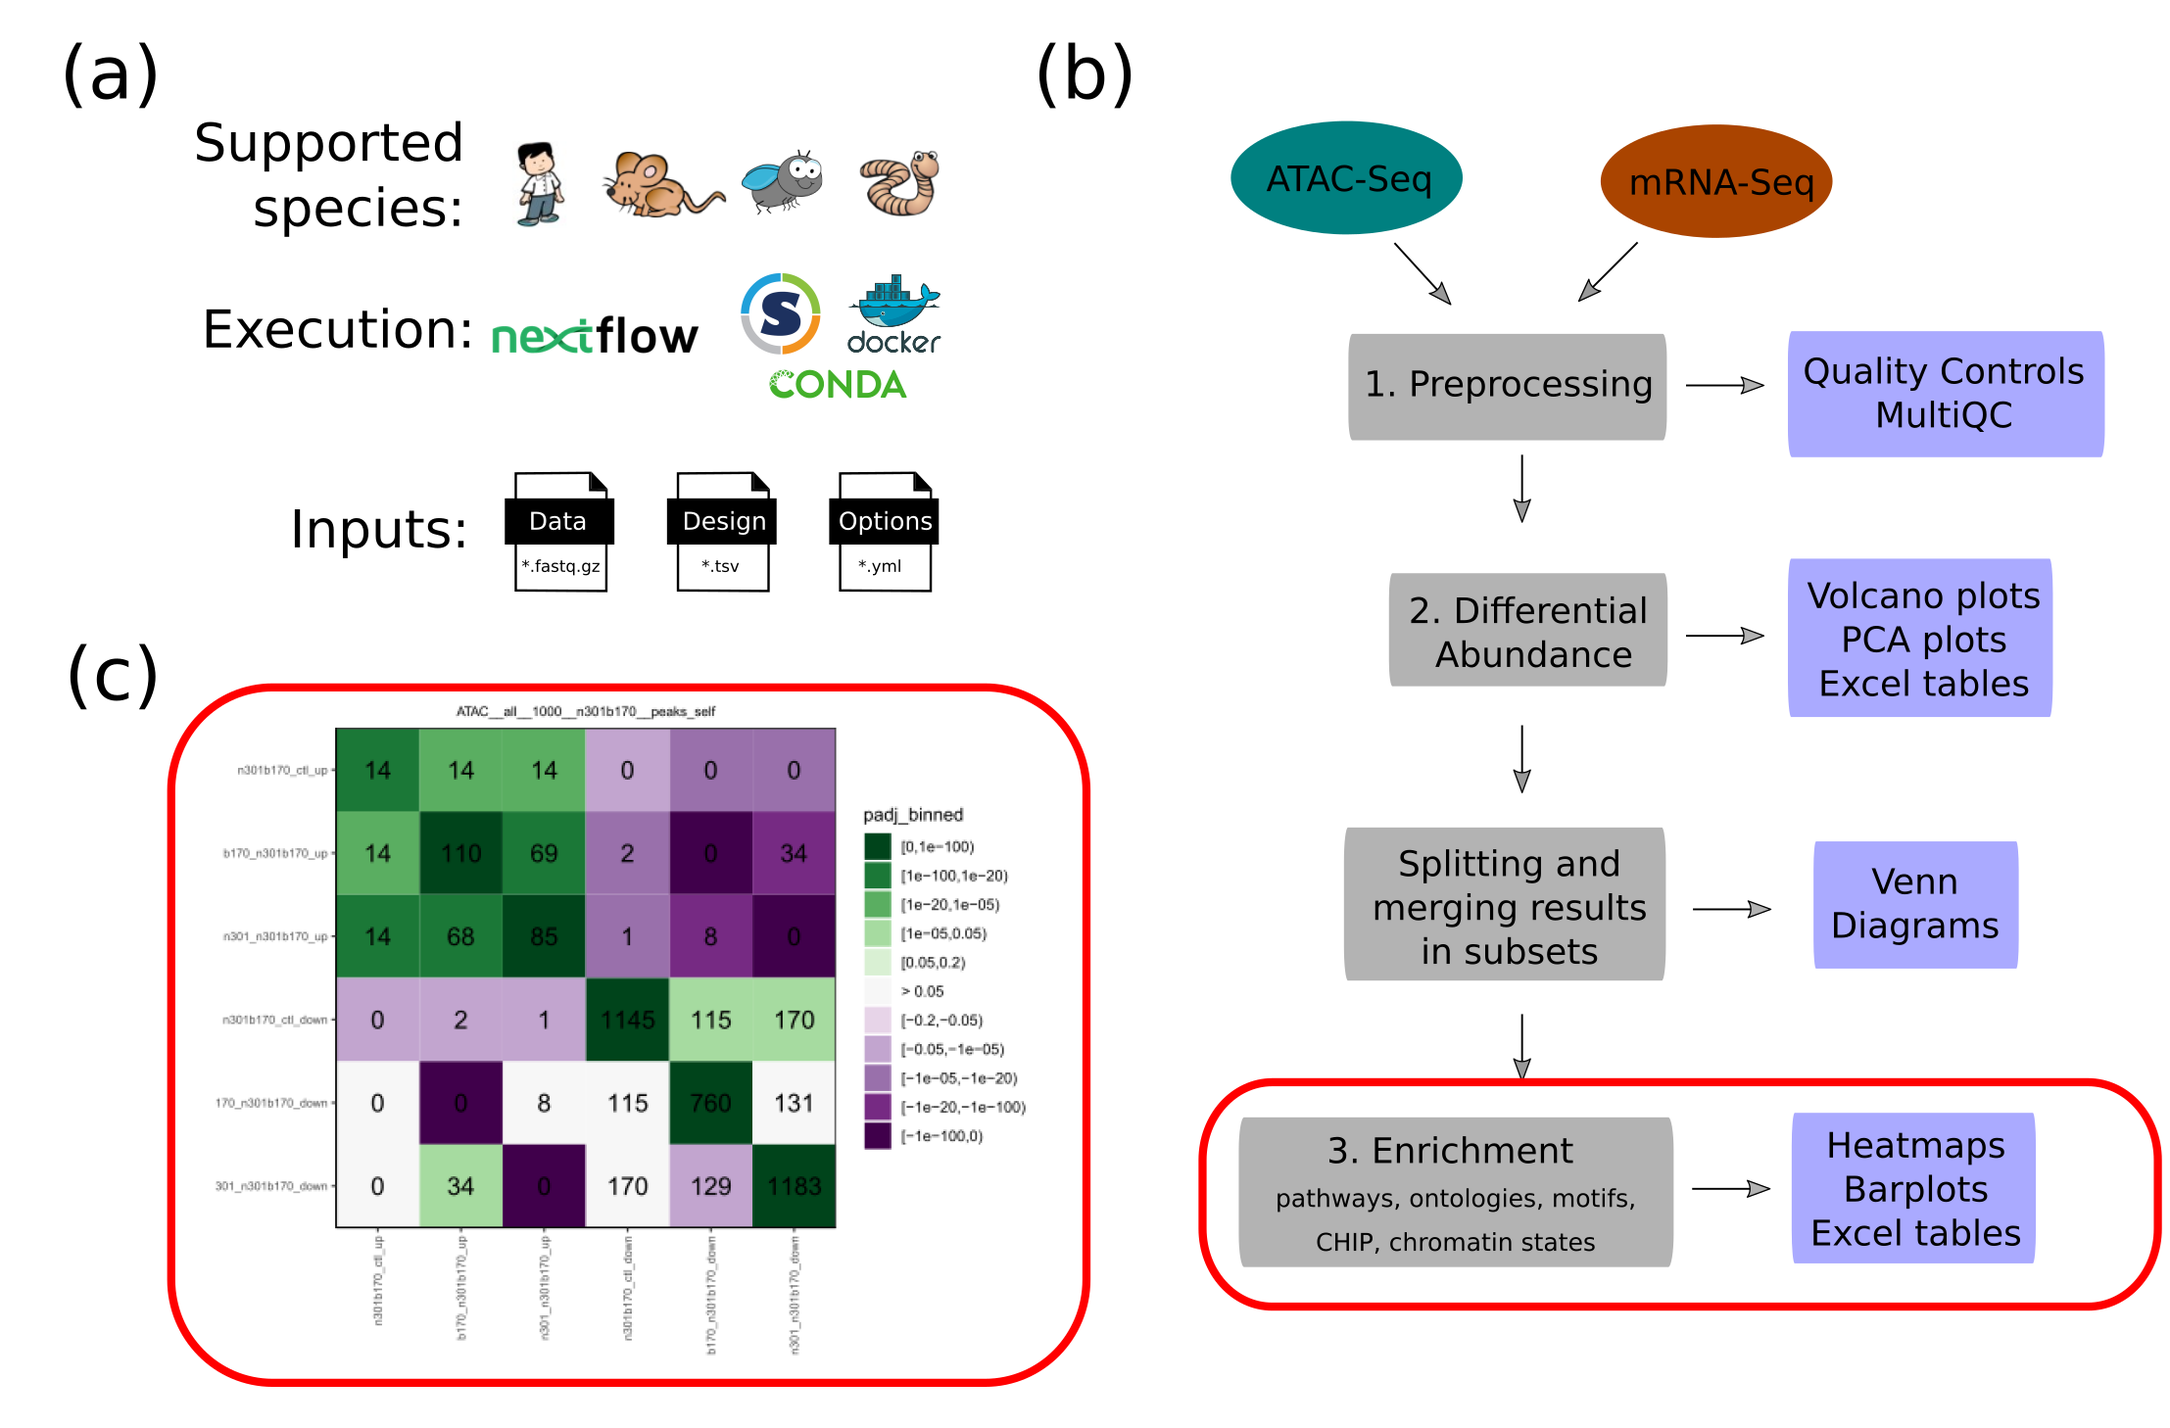
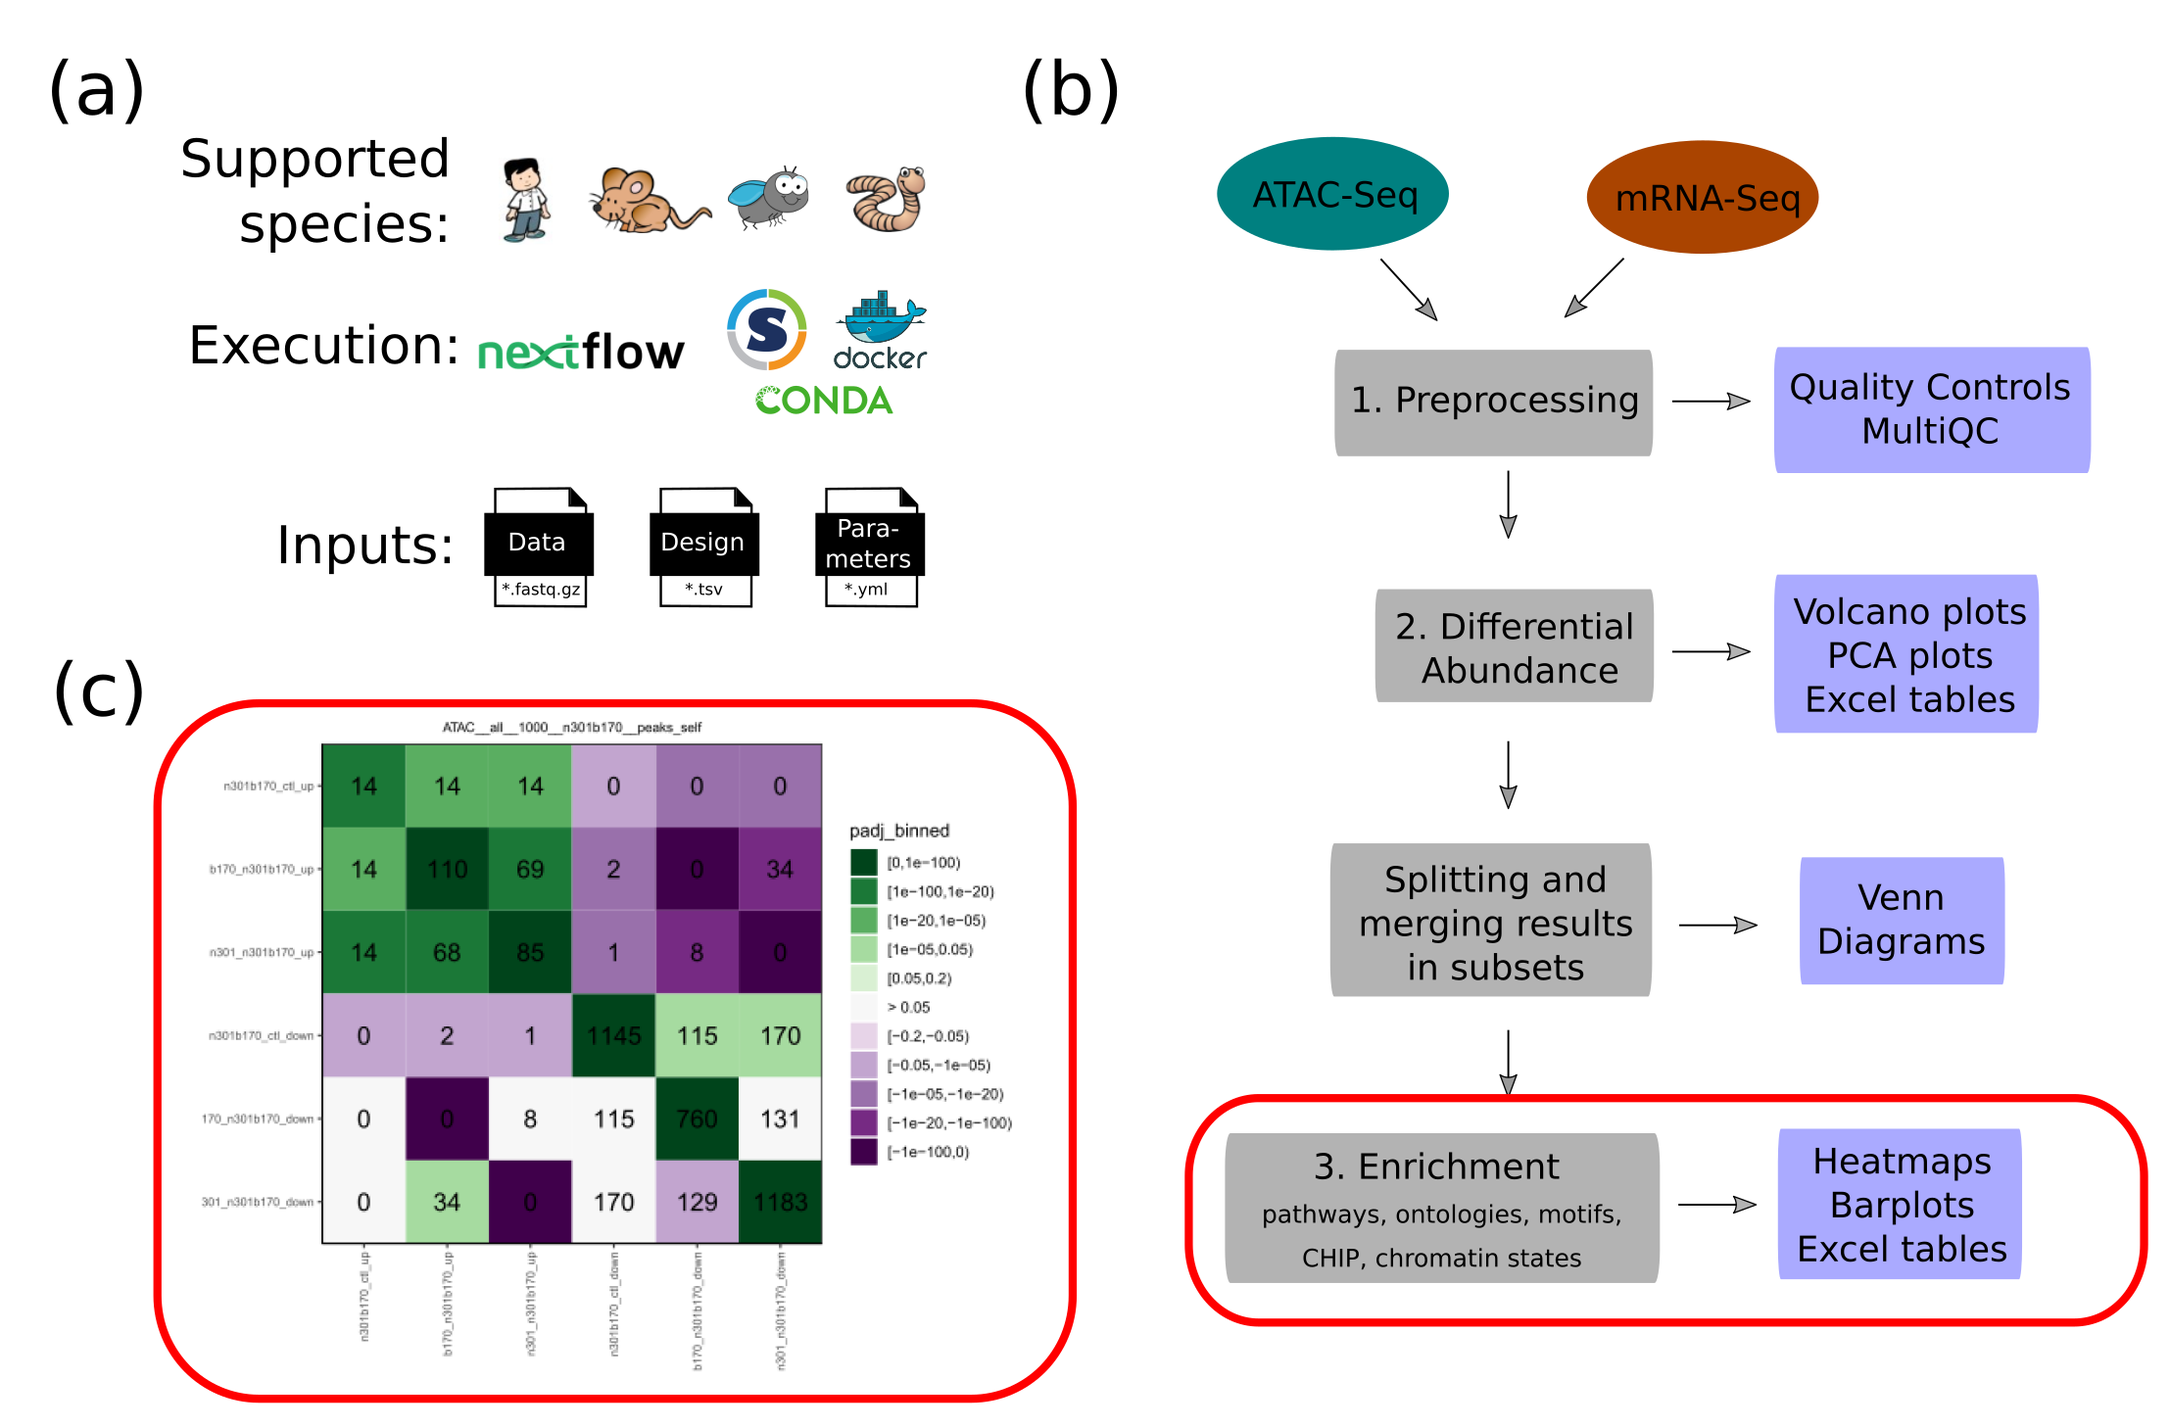
renaming options to parameters

diff --git a/docs/3_Inputs/3_Inputs.md b/docs/3_Inputs/3_Inputs.md
@@ -2,7 +2,7 @@
 
 * [Introduction](/README.md): [Quick Start](/docs/1_Intro/Quick_start.md), [Flowchart](/docs/1_Intro/Flowchart.md), [Outputs structure](/docs/1_Intro/Outputs_structure.md)
 * [Install](/docs/2_Install/2_Install.md): [Dependencies](/docs/2_Install/Dependencies.md), [Containers](/docs/2_Install/Containers.md), [References](/docs/2_Install/References.md), [Test datasets](/docs/2_Install/Test_datasets.md)
-* [Inputs](/docs/3_Inputs/3_Inputs.md): [Data](/docs/3_Inputs/Data.md), [Design](/docs/3_Inputs/Design.md), [Options](/docs/3_Inputs/Options.md)
+* [Inputs](/docs/3_Inputs/3_Inputs.md): [Data](/docs/3_Inputs/Data.md), [Design](/docs/3_Inputs/Design.md), [Parameters](/docs/3_Inputs/Parameters.md)
 * [1. Preprocessing](/docs/4_Prepro/4_Prepro.md): [ATAC reads](/docs/4_Prepro/ATAC_reads.md), [ATAC peaks](/docs/4_Prepro/ATAC_peaks.md), [mRNA](/docs/4_Prepro/mRNA.md)
 * [2. Differential Abundance](/docs/5_DA/5_DA.md): [ATAC](/docs/5_DA/DA_ATAC.md), [mRNA](/docs/5_DA/DA_mRNA.md), [Split](/docs/5_DA/Split.md)
 * [3. Enrichment](/docs/6_Enrich/6_Enrich.md): [Enrichment](/docs/6_Enrich/Enrichment.md), [Figures](/docs/6_Enrich/Figures.md), [Tables](/docs/6_Enrich/Tables.md)
@@ -16,7 +16,7 @@
 This section covers the inputs files needed by Cactus. There are 3 kind of inputs files: 
  - [Data](/docs/3_Inputs/Data.md) (*.fastq.gz* files): raw sequencing output files
  - [Design](/docs/3_Inputs/Design.md) (*.tsv* files): to indicate the design of the experiment; that is how fastq files relate to samples and conditions, and comparisons to perform and groups of comparisons to plot together in the heatmaps
- - [Options](/docs/3_Inputs/Options.md) (*.config* files): to indicate the parameters to use for the current analysis run. This is the only needed input file for a cactus call.
+ - [Parameters](/docs/3_Inputs/Parameters.md) (*.yml* file): to indicate the parameters to use for the current analysis run. This is the only needed input file for a cactus call.
  
 Here is an example of input files at the run directory folder:
 <!-- tree -I "results|work"  (worm folder; then editing the output manually)-->

diff --git a/README.md b/README.md
@@ -2,7 +2,7 @@
 
 * [Introduction](/README.md): [Quick Start](/docs/1_Intro/Quick_start.md), [Flowchart](/docs/1_Intro/Flowchart.md), [Outputs structure](/docs/1_Intro/Outputs_structure.md)
 * [Install](/docs/2_Install/2_Install.md): [Dependencies](/docs/2_Install/Dependencies.md), [Containers](/docs/2_Install/Containers.md), [References](/docs/2_Install/References.md), [Test datasets](/docs/2_Install/Test_datasets.md)
-* [Inputs](/docs/3_Inputs/3_Inputs.md): [Data](/docs/3_Inputs/Data.md), [Design](/docs/3_Inputs/Design.md), [Options](/docs/3_Inputs/Options.md)
+* [Inputs](/docs/3_Inputs/3_Inputs.md): [Data](/docs/3_Inputs/Data.md), [Design](/docs/3_Inputs/Design.md), [Parameters](/docs/3_Inputs/Parameters.md)
 * [1. Preprocessing](/docs/4_Prepro/4_Prepro.md): [ATAC reads](/docs/4_Prepro/ATAC_reads.md), [ATAC peaks](/docs/4_Prepro/ATAC_peaks.md), [mRNA](/docs/4_Prepro/mRNA.md)
 * [2. Differential Abundance](/docs/5_DA/5_DA.md): [ATAC](/docs/5_DA/DA_ATAC.md), [mRNA](/docs/5_DA/DA_mRNA.md), [Split](/docs/5_DA/Split.md)
 * [3. Enrichment](/docs/6_Enrich/6_Enrich.md): [Enrichment](/docs/6_Enrich/Enrichment.md), [Figures](/docs/6_Enrich/Figures.md), [Tables](/docs/6_Enrich/Tables.md)

diff --git a/docs/1_Intro/Flowchart.md b/docs/1_Intro/Flowchart.md
@@ -2,7 +2,7 @@
 
 * [Introduction](/README.md): [Quick Start](/docs/1_Intro/Quick_start.md), [Flowchart](/docs/1_Intro/Flowchart.md), [Outputs structure](/docs/1_Intro/Outputs_structure.md)
 * [Install](/docs/2_Install/2_Install.md): [Dependencies](/docs/2_Install/Dependencies.md), [Containers](/docs/2_Install/Containers.md), [References](/docs/2_Install/References.md), [Test datasets](/docs/2_Install/Test_datasets.md)
-* [Inputs](/docs/3_Inputs/3_Inputs.md): [Data](/docs/3_Inputs/Data.md), [Design](/docs/3_Inputs/Design.md), [Options](/docs/3_Inputs/Options.md)
+* [Inputs](/docs/3_Inputs/3_Inputs.md): [Data](/docs/3_Inputs/Data.md), [Design](/docs/3_Inputs/Design.md), [Parameters](/docs/3_Inputs/Parameters.md)
 * [1. Preprocessing](/docs/4_Prepro/4_Prepro.md): [ATAC reads](/docs/4_Prepro/ATAC_reads.md), [ATAC peaks](/docs/4_Prepro/ATAC_peaks.md), [mRNA](/docs/4_Prepro/mRNA.md)
 * [2. Differential Abundance](/docs/5_DA/5_DA.md): [ATAC](/docs/5_DA/DA_ATAC.md), [mRNA](/docs/5_DA/DA_mRNA.md), [Split](/docs/5_DA/Split.md)
 * [3. Enrichment](/docs/6_Enrich/6_Enrich.md): [Enrichment](/docs/6_Enrich/Enrichment.md), [Figures](/docs/6_Enrich/Figures.md), [Tables](/docs/6_Enrich/Tables.md)

diff --git a/docs/1_Intro/Outputs_structure.md b/docs/1_Intro/Outputs_structure.md
@@ -2,7 +2,7 @@
 
 * [Introduction](/README.md): [Quick Start](/docs/1_Intro/Quick_start.md), [Flowchart](/docs/1_Intro/Flowchart.md), [Outputs structure](/docs/1_Intro/Outputs_structure.md)
 * [Install](/docs/2_Install/2_Install.md): [Dependencies](/docs/2_Install/Dependencies.md), [Containers](/docs/2_Install/Containers.md), [References](/docs/2_Install/References.md), [Test datasets](/docs/2_Install/Test_datasets.md)
-* [Inputs](/docs/3_Inputs/3_Inputs.md): [Data](/docs/3_Inputs/Data.md), [Design](/docs/3_Inputs/Design.md), [Options](/docs/3_Inputs/Options.md)
+* [Inputs](/docs/3_Inputs/3_Inputs.md): [Data](/docs/3_Inputs/Data.md), [Design](/docs/3_Inputs/Design.md), [Parameters](/docs/3_Inputs/Parameters.md)
 * [1. Preprocessing](/docs/4_Prepro/4_Prepro.md): [ATAC reads](/docs/4_Prepro/ATAC_reads.md), [ATAC peaks](/docs/4_Prepro/ATAC_peaks.md), [mRNA](/docs/4_Prepro/mRNA.md)
 * [2. Differential Abundance](/docs/5_DA/5_DA.md): [ATAC](/docs/5_DA/DA_ATAC.md), [mRNA](/docs/5_DA/DA_mRNA.md), [Split](/docs/5_DA/Split.md)
 * [3. Enrichment](/docs/6_Enrich/6_Enrich.md): [Enrichment](/docs/6_Enrich/Enrichment.md), [Figures](/docs/6_Enrich/Figures.md), [Tables](/docs/6_Enrich/Tables.md)

diff --git a/docs/1_Intro/Quick_start.md b/docs/1_Intro/Quick_start.md
@@ -2,7 +2,7 @@
 
 * [Introduction](/README.md): [Quick Start](/docs/1_Intro/Quick_start.md), [Flowchart](/docs/1_Intro/Flowchart.md), [Outputs structure](/docs/1_Intro/Outputs_structure.md)
 * [Install](/docs/2_Install/2_Install.md): [Dependencies](/docs/2_Install/Dependencies.md), [Containers](/docs/2_Install/Containers.md), [References](/docs/2_Install/References.md), [Test datasets](/docs/2_Install/Test_datasets.md)
-* [Inputs](/docs/3_Inputs/3_Inputs.md): [Data](/docs/3_Inputs/Data.md), [Design](/docs/3_Inputs/Design.md), [Options](/docs/3_Inputs/Options.md)
+* [Inputs](/docs/3_Inputs/3_Inputs.md): [Data](/docs/3_Inputs/Data.md), [Design](/docs/3_Inputs/Design.md), [Parameters](/docs/3_Inputs/Parameters.md)
 * [1. Preprocessing](/docs/4_Prepro/4_Prepro.md): [ATAC reads](/docs/4_Prepro/ATAC_reads.md), [ATAC peaks](/docs/4_Prepro/ATAC_peaks.md), [mRNA](/docs/4_Prepro/mRNA.md)
 * [2. Differential Abundance](/docs/5_DA/5_DA.md): [ATAC](/docs/5_DA/DA_ATAC.md), [mRNA](/docs/5_DA/DA_mRNA.md), [Split](/docs/5_DA/Split.md)
 * [3. Enrichment](/docs/6_Enrich/6_Enrich.md): [Enrichment](/docs/6_Enrich/Enrichment.md), [Figures](/docs/6_Enrich/Figures.md), [Tables](/docs/6_Enrich/Tables.md)

diff --git a/docs/2_Install/2_Install.md b/docs/2_Install/2_Install.md
@@ -2,7 +2,7 @@
 
 * [Introduction](/README.md): [Quick Start](/docs/1_Intro/Quick_start.md), [Flowchart](/docs/1_Intro/Flowchart.md), [Outputs structure](/docs/1_Intro/Outputs_structure.md)
 * [Install](/docs/2_Install/2_Install.md): [Dependencies](/docs/2_Install/Dependencies.md), [Containers](/docs/2_Install/Containers.md), [References](/docs/2_Install/References.md), [Test datasets](/docs/2_Install/Test_datasets.md)
-* [Inputs](/docs/3_Inputs/3_Inputs.md): [Data](/docs/3_Inputs/Data.md), [Design](/docs/3_Inputs/Design.md), [Options](/docs/3_Inputs/Options.md)
+* [Inputs](/docs/3_Inputs/3_Inputs.md): [Data](/docs/3_Inputs/Data.md), [Design](/docs/3_Inputs/Design.md), [Parameters](/docs/3_Inputs/Parameters.md)
 * [1. Preprocessing](/docs/4_Prepro/4_Prepro.md): [ATAC reads](/docs/4_Prepro/ATAC_reads.md), [ATAC peaks](/docs/4_Prepro/ATAC_peaks.md), [mRNA](/docs/4_Prepro/mRNA.md)
 * [2. Differential Abundance](/docs/5_DA/5_DA.md): [ATAC](/docs/5_DA/DA_ATAC.md), [mRNA](/docs/5_DA/DA_mRNA.md), [Split](/docs/5_DA/Split.md)
 * [3. Enrichment](/docs/6_Enrich/6_Enrich.md): [Enrichment](/docs/6_Enrich/Enrichment.md), [Figures](/docs/6_Enrich/Figures.md), [Tables](/docs/6_Enrich/Tables.md)

diff --git a/docs/2_Install/Containers.md b/docs/2_Install/Containers.md
@@ -2,7 +2,7 @@
 
 * [Introduction](/README.md): [Quick Start](/docs/1_Intro/Quick_start.md), [Flowchart](/docs/1_Intro/Flowchart.md), [Outputs structure](/docs/1_Intro/Outputs_structure.md)
 * [Install](/docs/2_Install/2_Install.md): [Dependencies](/docs/2_Install/Dependencies.md), [Containers](/docs/2_Install/Containers.md), [References](/docs/2_Install/References.md), [Test datasets](/docs/2_Install/Test_datasets.md)
-* [Inputs](/docs/3_Inputs/3_Inputs.md): [Data](/docs/3_Inputs/Data.md), [Design](/docs/3_Inputs/Design.md), [Options](/docs/3_Inputs/Options.md)
+* [Inputs](/docs/3_Inputs/3_Inputs.md): [Data](/docs/3_Inputs/Data.md), [Design](/docs/3_Inputs/Design.md), [Parameters](/docs/3_Inputs/Parameters.md)
 * [1. Preprocessing](/docs/4_Prepro/4_Prepro.md): [ATAC reads](/docs/4_Prepro/ATAC_reads.md), [ATAC peaks](/docs/4_Prepro/ATAC_peaks.md), [mRNA](/docs/4_Prepro/mRNA.md)
 * [2. Differential Abundance](/docs/5_DA/5_DA.md): [ATAC](/docs/5_DA/DA_ATAC.md), [mRNA](/docs/5_DA/DA_mRNA.md), [Split](/docs/5_DA/Split.md)
 * [3. Enrichment](/docs/6_Enrich/6_Enrich.md): [Enrichment](/docs/6_Enrich/Enrichment.md), [Figures](/docs/6_Enrich/Figures.md), [Tables](/docs/6_Enrich/Tables.md)

diff --git a/docs/2_Install/Dependencies.md b/docs/2_Install/Dependencies.md
@@ -2,7 +2,7 @@
 
 * [Introduction](/README.md): [Quick Start](/docs/1_Intro/Quick_start.md), [Flowchart](/docs/1_Intro/Flowchart.md), [Outputs structure](/docs/1_Intro/Outputs_structure.md)
 * [Install](/docs/2_Install/2_Install.md): [Dependencies](/docs/2_Install/Dependencies.md), [Containers](/docs/2_Install/Containers.md), [References](/docs/2_Install/References.md), [Test datasets](/docs/2_Install/Test_datasets.md)
-* [Inputs](/docs/3_Inputs/3_Inputs.md): [Data](/docs/3_Inputs/Data.md), [Design](/docs/3_Inputs/Design.md), [Options](/docs/3_Inputs/Options.md)
+* [Inputs](/docs/3_Inputs/3_Inputs.md): [Data](/docs/3_Inputs/Data.md), [Design](/docs/3_Inputs/Design.md), [Parameters](/docs/3_Inputs/Parameters.md)
 * [1. Preprocessing](/docs/4_Prepro/4_Prepro.md): [ATAC reads](/docs/4_Prepro/ATAC_reads.md), [ATAC peaks](/docs/4_Prepro/ATAC_peaks.md), [mRNA](/docs/4_Prepro/mRNA.md)
 * [2. Differential Abundance](/docs/5_DA/5_DA.md): [ATAC](/docs/5_DA/DA_ATAC.md), [mRNA](/docs/5_DA/DA_mRNA.md), [Split](/docs/5_DA/Split.md)
 * [3. Enrichment](/docs/6_Enrich/6_Enrich.md): [Enrichment](/docs/6_Enrich/Enrichment.md), [Figures](/docs/6_Enrich/Figures.md), [Tables](/docs/6_Enrich/Tables.md)

diff --git a/docs/2_Install/References.md b/docs/2_Install/References.md
@@ -2,7 +2,7 @@
 
 * [Introduction](/README.md): [Quick Start](/docs/1_Intro/Quick_start.md), [Flowchart](/docs/1_Intro/Flowchart.md), [Outputs structure](/docs/1_Intro/Outputs_structure.md)
 * [Install](/docs/2_Install/2_Install.md): [Dependencies](/docs/2_Install/Dependencies.md), [Containers](/docs/2_Install/Containers.md), [References](/docs/2_Install/References.md), [Test datasets](/docs/2_Install/Test_datasets.md)
-* [Inputs](/docs/3_Inputs/3_Inputs.md): [Data](/docs/3_Inputs/Data.md), [Design](/docs/3_Inputs/Design.md), [Options](/docs/3_Inputs/Options.md)
+* [Inputs](/docs/3_Inputs/3_Inputs.md): [Data](/docs/3_Inputs/Data.md), [Design](/docs/3_Inputs/Design.md), [Parameters](/docs/3_Inputs/Parameters.md)
 * [1. Preprocessing](/docs/4_Prepro/4_Prepro.md): [ATAC reads](/docs/4_Prepro/ATAC_reads.md), [ATAC peaks](/docs/4_Prepro/ATAC_peaks.md), [mRNA](/docs/4_Prepro/mRNA.md)
 * [2. Differential Abundance](/docs/5_DA/5_DA.md): [ATAC](/docs/5_DA/DA_ATAC.md), [mRNA](/docs/5_DA/DA_mRNA.md), [Split](/docs/5_DA/Split.md)
 * [3. Enrichment](/docs/6_Enrich/6_Enrich.md): [Enrichment](/docs/6_Enrich/Enrichment.md), [Figures](/docs/6_Enrich/Figures.md), [Tables](/docs/6_Enrich/Tables.md)

diff --git a/docs/2_Install/Test_datasets.md b/docs/2_Install/Test_datasets.md
@@ -2,7 +2,7 @@
 
 * [Introduction](/README.md): [Quick Start](/docs/1_Intro/Quick_start.md), [Flowchart](/docs/1_Intro/Flowchart.md), [Outputs structure](/docs/1_Intro/Outputs_structure.md)
 * [Install](/docs/2_Install/2_Install.md): [Dependencies](/docs/2_Install/Dependencies.md), [Containers](/docs/2_Install/Containers.md), [References](/docs/2_Install/References.md), [Test datasets](/docs/2_Install/Test_datasets.md)
-* [Inputs](/docs/3_Inputs/3_Inputs.md): [Data](/docs/3_Inputs/Data.md), [Design](/docs/3_Inputs/Design.md), [Options](/docs/3_Inputs/Options.md)
+* [Inputs](/docs/3_Inputs/3_Inputs.md): [Data](/docs/3_Inputs/Data.md), [Design](/docs/3_Inputs/Design.md), [Parameters](/docs/3_Inputs/Parameters.md)
 * [1. Preprocessing](/docs/4_Prepro/4_Prepro.md): [ATAC reads](/docs/4_Prepro/ATAC_reads.md), [ATAC peaks](/docs/4_Prepro/ATAC_peaks.md), [mRNA](/docs/4_Prepro/mRNA.md)
 * [2. Differential Abundance](/docs/5_DA/5_DA.md): [ATAC](/docs/5_DA/DA_ATAC.md), [mRNA](/docs/5_DA/DA_mRNA.md), [Split](/docs/5_DA/Split.md)
 * [3. Enrichment](/docs/6_Enrich/6_Enrich.md): [Enrichment](/docs/6_Enrich/Enrichment.md), [Figures](/docs/6_Enrich/Figures.md), [Tables](/docs/6_Enrich/Tables.md)

diff --git a/docs/3_Inputs/Data.md b/docs/3_Inputs/Data.md
@@ -2,7 +2,7 @@
 
 * [Introduction](/README.md): [Quick Start](/docs/1_Intro/Quick_start.md), [Flowchart](/docs/1_Intro/Flowchart.md), [Outputs structure](/docs/1_Intro/Outputs_structure.md)
 * [Install](/docs/2_Install/2_Install.md): [Dependencies](/docs/2_Install/Dependencies.md), [Containers](/docs/2_Install/Containers.md), [References](/docs/2_Install/References.md), [Test datasets](/docs/2_Install/Test_datasets.md)
-* [Inputs](/docs/3_Inputs/3_Inputs.md): [Data](/docs/3_Inputs/Data.md), [Design](/docs/3_Inputs/Design.md), [Options](/docs/3_Inputs/Options.md)
+* [Inputs](/docs/3_Inputs/3_Inputs.md): [Data](/docs/3_Inputs/Data.md), [Design](/docs/3_Inputs/Design.md), [Parameters](/docs/3_Inputs/Parameters.md)
 * [1. Preprocessing](/docs/4_Prepro/4_Prepro.md): [ATAC reads](/docs/4_Prepro/ATAC_reads.md), [ATAC peaks](/docs/4_Prepro/ATAC_peaks.md), [mRNA](/docs/4_Prepro/mRNA.md)
 * [2. Differential Abundance](/docs/5_DA/5_DA.md): [ATAC](/docs/5_DA/DA_ATAC.md), [mRNA](/docs/5_DA/DA_mRNA.md), [Split](/docs/5_DA/Split.md)
 * [3. Enrichment](/docs/6_Enrich/6_Enrich.md): [Enrichment](/docs/6_Enrich/Enrichment.md), [Figures](/docs/6_Enrich/Figures.md), [Tables](/docs/6_Enrich/Tables.md)

diff --git a/docs/3_Inputs/Design.md b/docs/3_Inputs/Design.md
@@ -2,7 +2,7 @@
 
 * [Introduction](/README.md): [Quick Start](/docs/1_Intro/Quick_start.md), [Flowchart](/docs/1_Intro/Flowchart.md), [Outputs structure](/docs/1_Intro/Outputs_structure.md)
 * [Install](/docs/2_Install/2_Install.md): [Dependencies](/docs/2_Install/Dependencies.md), [Containers](/docs/2_Install/Containers.md), [References](/docs/2_Install/References.md), [Test datasets](/docs/2_Install/Test_datasets.md)
-* [Inputs](/docs/3_Inputs/3_Inputs.md): [Data](/docs/3_Inputs/Data.md), [Design](/docs/3_Inputs/Design.md), [Options](/docs/3_Inputs/Options.md)
+* [Inputs](/docs/3_Inputs/3_Inputs.md): [Data](/docs/3_Inputs/Data.md), [Design](/docs/3_Inputs/Design.md), [Parameters](/docs/3_Inputs/Parameters.md)
 * [1. Preprocessing](/docs/4_Prepro/4_Prepro.md): [ATAC reads](/docs/4_Prepro/ATAC_reads.md), [ATAC peaks](/docs/4_Prepro/ATAC_peaks.md), [mRNA](/docs/4_Prepro/mRNA.md)
 * [2. Differential Abundance](/docs/5_DA/5_DA.md): [ATAC](/docs/5_DA/DA_ATAC.md), [mRNA](/docs/5_DA/DA_mRNA.md), [Split](/docs/5_DA/Split.md)
 * [3. Enrichment](/docs/6_Enrich/6_Enrich.md): [Enrichment](/docs/6_Enrich/Enrichment.md), [Figures](/docs/6_Enrich/Figures.md), [Tables](/docs/6_Enrich/Tables.md)
